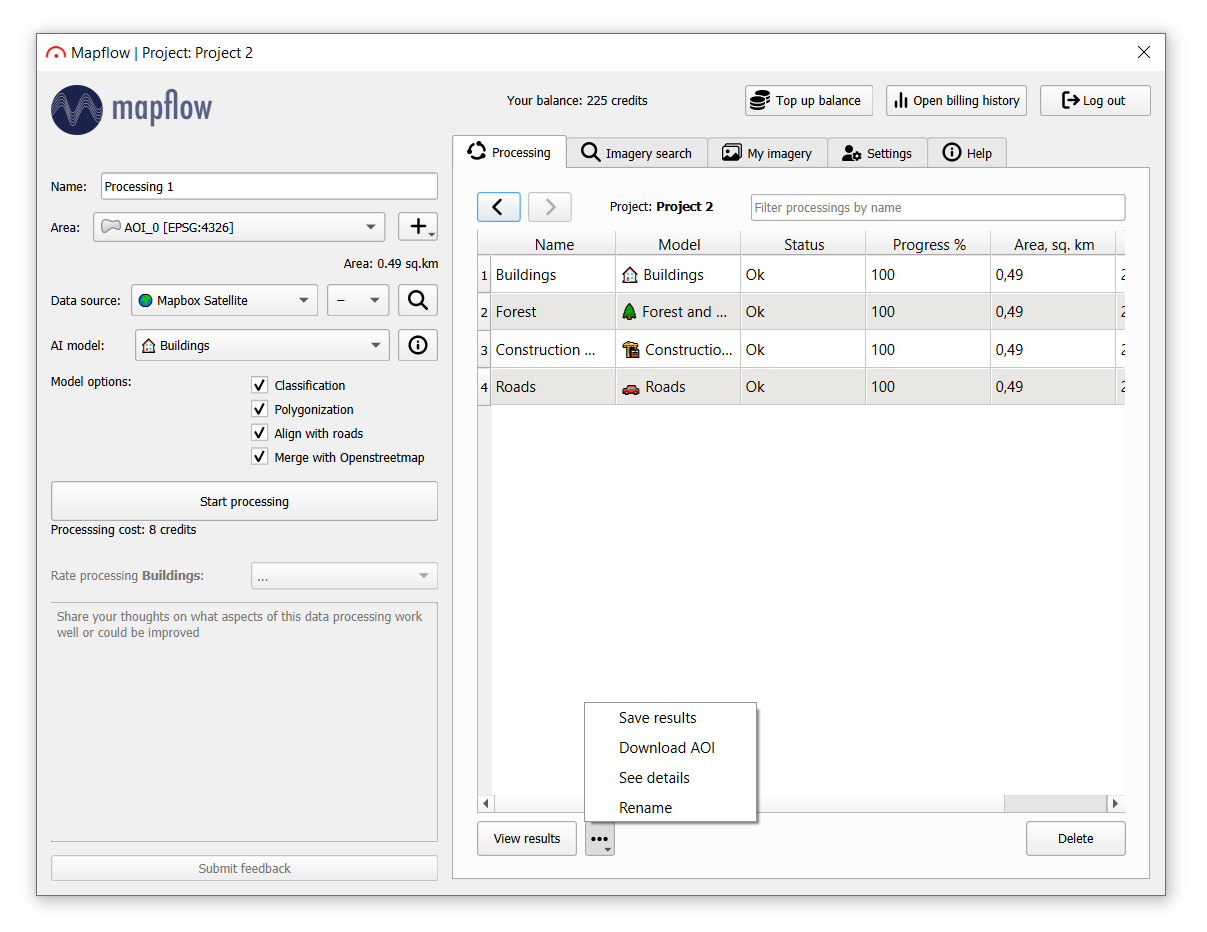
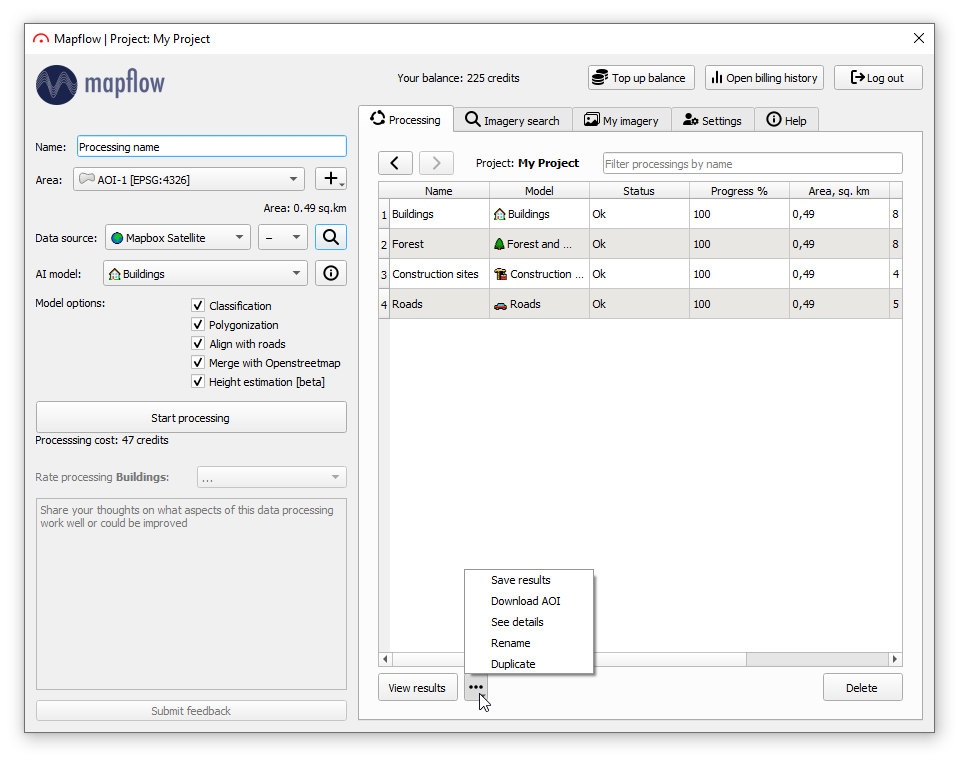
add plugin v3.3.0 + some fixes

Changed region(s): [[0.0, 0.0303, 0.999, 0.9684]]

diff --git a/source/api/qgis_mapflow.rst b/source/api/qgis_mapflow.rst
@@ -115,6 +115,11 @@ This tab is divided into two parts. First, you will see a list of your projects.
 
 To go to the processing of the selected project, you need to double-click on it or select the project and click on |right_arrow|. To return to the list of projects, click |left_arrow|.
 
+.. note::
+  Since plugin version 3.3.0, the processing :ref:`API v2.0 <processing-api-v2>` is used.
+  
+  .. Since plugin version 3.3.0, the processing :doc:`API v2.0 <../processing_api/processing-api-v2>` is used.
+
 .. figure:: _static/qgis/processing_tab.png
          :alt: View of the processing tab
          :align: center
@@ -126,11 +131,24 @@ To go to the processing of the selected project, you need to double-click on it 
 To view the processing results, click on the "View results" button or double-click on the processing name in the table. 
 You can manage the processings using the options and buttons in the bottom panel menu (Delete, Rename, Save results, etc.). Processing filter by name is available at the top of the panel.
 
+Just like in Mapflow WEB, you can duplicate the selected processing and run a copy of it with the same parameters via "Duplicate" button. Also, if the processing fails, you can restart it using the "Restart" button (it is displayed in the menu only if the selected processing is in a FAILED status).
+
 .. hint::
     To download the processing results, you can double-click on the completed processing in the list. 
     
 .. hint::   
     By default the processing results are downloadable as vector tiles for faster preview.  To donwload the processing results as a file you havve to choose this option: Setttings --> "save rresults as a local vector file"
+
+To view detailed information about a processing, click "See details". The window that opens will display the processing's **Name**, **ID** and **Status**, as well as the **Data provider**, **Model** and **Model options** used.
+In some cases, a button will appear next to the **Data provider**. You can use it to go directly to the data source, for example, to a "My imagery" collections or a specific image.
+
+.. figure:: _static/qgis/see_details_window.png
+         :alt: View of the see details window
+         :align: center
+         :width: 11cm
+         :class: with-border no-scaled-link
+
+         Processing details
 
 .. **Explanation of the fields and buttons of this tab:**
 
@@ -307,6 +325,15 @@ How to run the processing using My imagery
 
     |
 
+.. hint::
+   You can rename images in your Imagery collections:
+
+    .. figure:: _static/qgis/rename_image.png
+            :align: center
+            :class: with-border
+            :width: 11cm
+
+    |
 
 .. _Settings:
 

diff --git a/source/api/processing_api.rst b/source/api/processing_api.rst
@@ -396,6 +396,8 @@ Deletes the project. Cascade deletes any child entities.
 Processings
 ------------
 
+.. _processing-api-v2:
+
 Processing API v2
 ^^^^^^^^^^^^^^^^^^^
 
@@ -407,7 +409,7 @@ Get all processings
 Returns the list of the user’s processings by the Default project
 
 Get all processings by Project Id
-""""""""""""""""""""""""""""
+""""""""""""""""""""""""""""""""""
 
 ``GET https://api.mapflow.ai/rest/projects/{projectId}/processings/v2``
 
@@ -415,7 +417,7 @@ Returns the list of the user’s processings by user’s project
 
 
 Get processing by Id v2
-""""""""""""""""""""
+""""""""""""""""""""""""
 
 ``GET https://api.mapflow.ai/rest/processings/{processingId}/v2``
 
